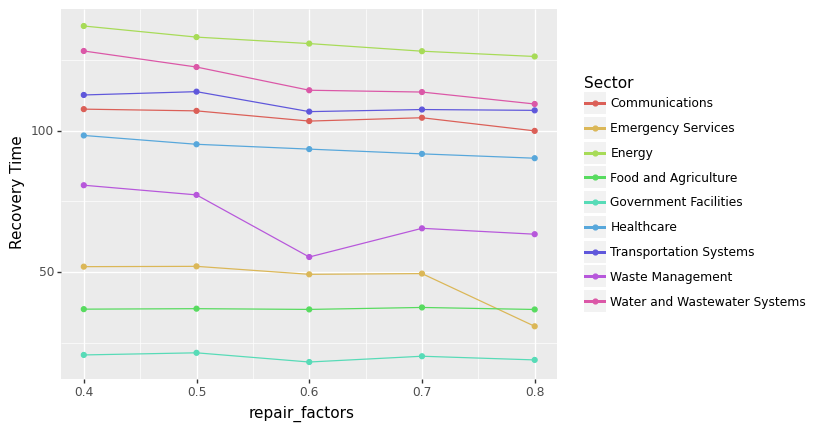
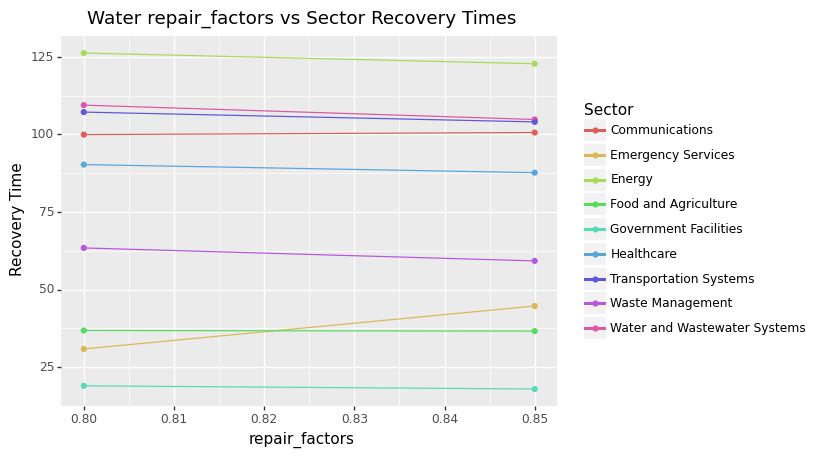
added some contextual names

diff --git a/sensitivity_GUI.py b/sensitivity_GUI.py
@@ -12,11 +12,10 @@ import infrastructures_from_file
 import coefficients_from_file
 import tkinter.messagebox as tkMessageBox
 import json
+import seaborn as sns
 import pandas as pd
 import matplotlib.pyplot as plt
 from shutil import copyfile
-
-
 import os
 #import geopandas
 if (sys.version_info > (3,0)):
@@ -110,8 +109,10 @@ class sensitivityAnalysis(object):
         print(self.steps)
         for i in range(self.steps):
             print("looping")
-            if self.parameter == "repair_factors" or self.parameter == "n0":
-              data[self.parameter][sectorInt] = start
+            if self.parameter == "Repair Factors":
+              data["repair_factors"][sectorInt] = start
+            elif self.parameter == "Initial Efficiency":
+              data["n0"][sectorInt] = start
             elif self.parameter == "Days Backup":
               depBackups = list(range(9))
               depBackups.pop(sectorInt)
@@ -145,11 +146,16 @@ class sensitivityAnalysis(object):
               results = results.append(new_row, ignore_index=True)
             start += step
         plt.style.use('ggplot')
-        p = ggplot(results, aes(x='Value', y='RT', color = 'Sector')) + xlab(self.parameter) + ylab("Recovery Time") + geom_point() + geom_line()
+        ggt = self.sector + " " + self.parameter + " vs Sector Recovery Times"
+        p = ggplot(results, aes(x='Value', y='RT', color = 'Sector')) + xlab(self.parameter) + ylab("Recovery Time (days)") + geom_point() + geom_line() + ggtitle(ggt)
         file_name = self.parameter + "_" + self.sector
         path_name = dir_path + "\\Sensitivity\\"
         p.save(filename=file_name, path = path_name, verbose = False)
         copyfile(temp_file, fileLoc)
+        splot = sns.lmplot(x='Value', y='RT', hue="Sector", data=results,fit_reg=True)
+        
+        fig = splot.get_figure()
+        fig.savefig("s" + file_name)
                 
 def main():
     LARGE_FONT= ("Verdana", 24)
@@ -278,7 +284,7 @@ def main():
                   new_sector_list.append(sectors[i])
               if rf>0:
                 for sector in new_sector_list:
-                  individual_run = sensitivityAnalysis("repair_factors", rf_range_min.get(),
+                  individual_run = sensitivityAnalysis("Repair Factors", rf_range_min.get(),
                                             rf_range_max.get(), rf_steps.get(), sector)
                   individual_run.runAnalysis(sectors)
                   
@@ -296,7 +302,7 @@ def main():
                   
               if initial_efficiency>0:
                 for sector in new_sector_list:
-                  individual_run = sensitivityAnalysis("n0", initial_efficiency_range_min.get(),
+                  individual_run = sensitivityAnalysis("Initial Efficiency", initial_efficiency_range_min.get(),
                                             initial_efficiency_range_max.get(), initial_efficiency_steps.get(), sector)
                   individual_run.runAnalysis(sectors)
             
